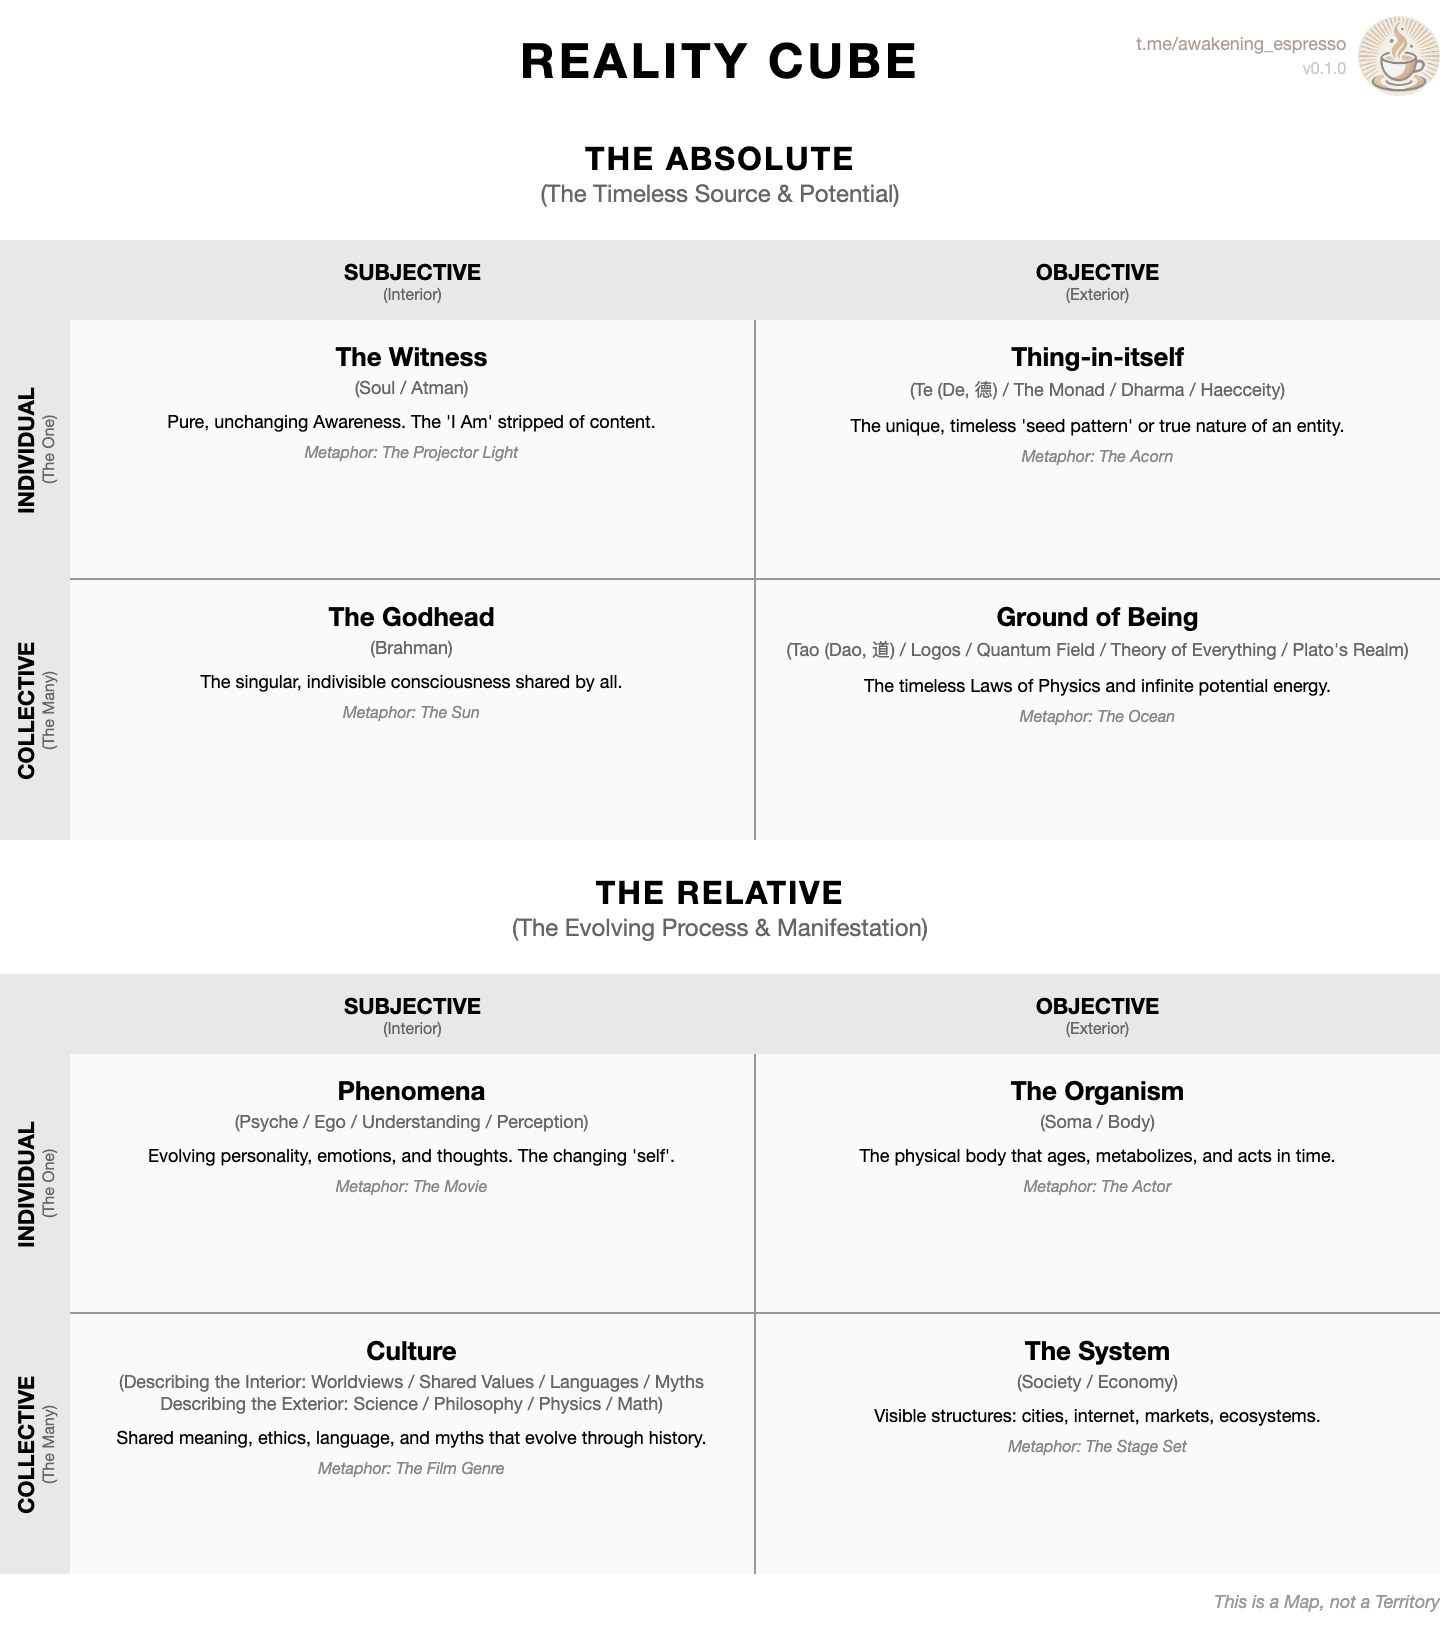
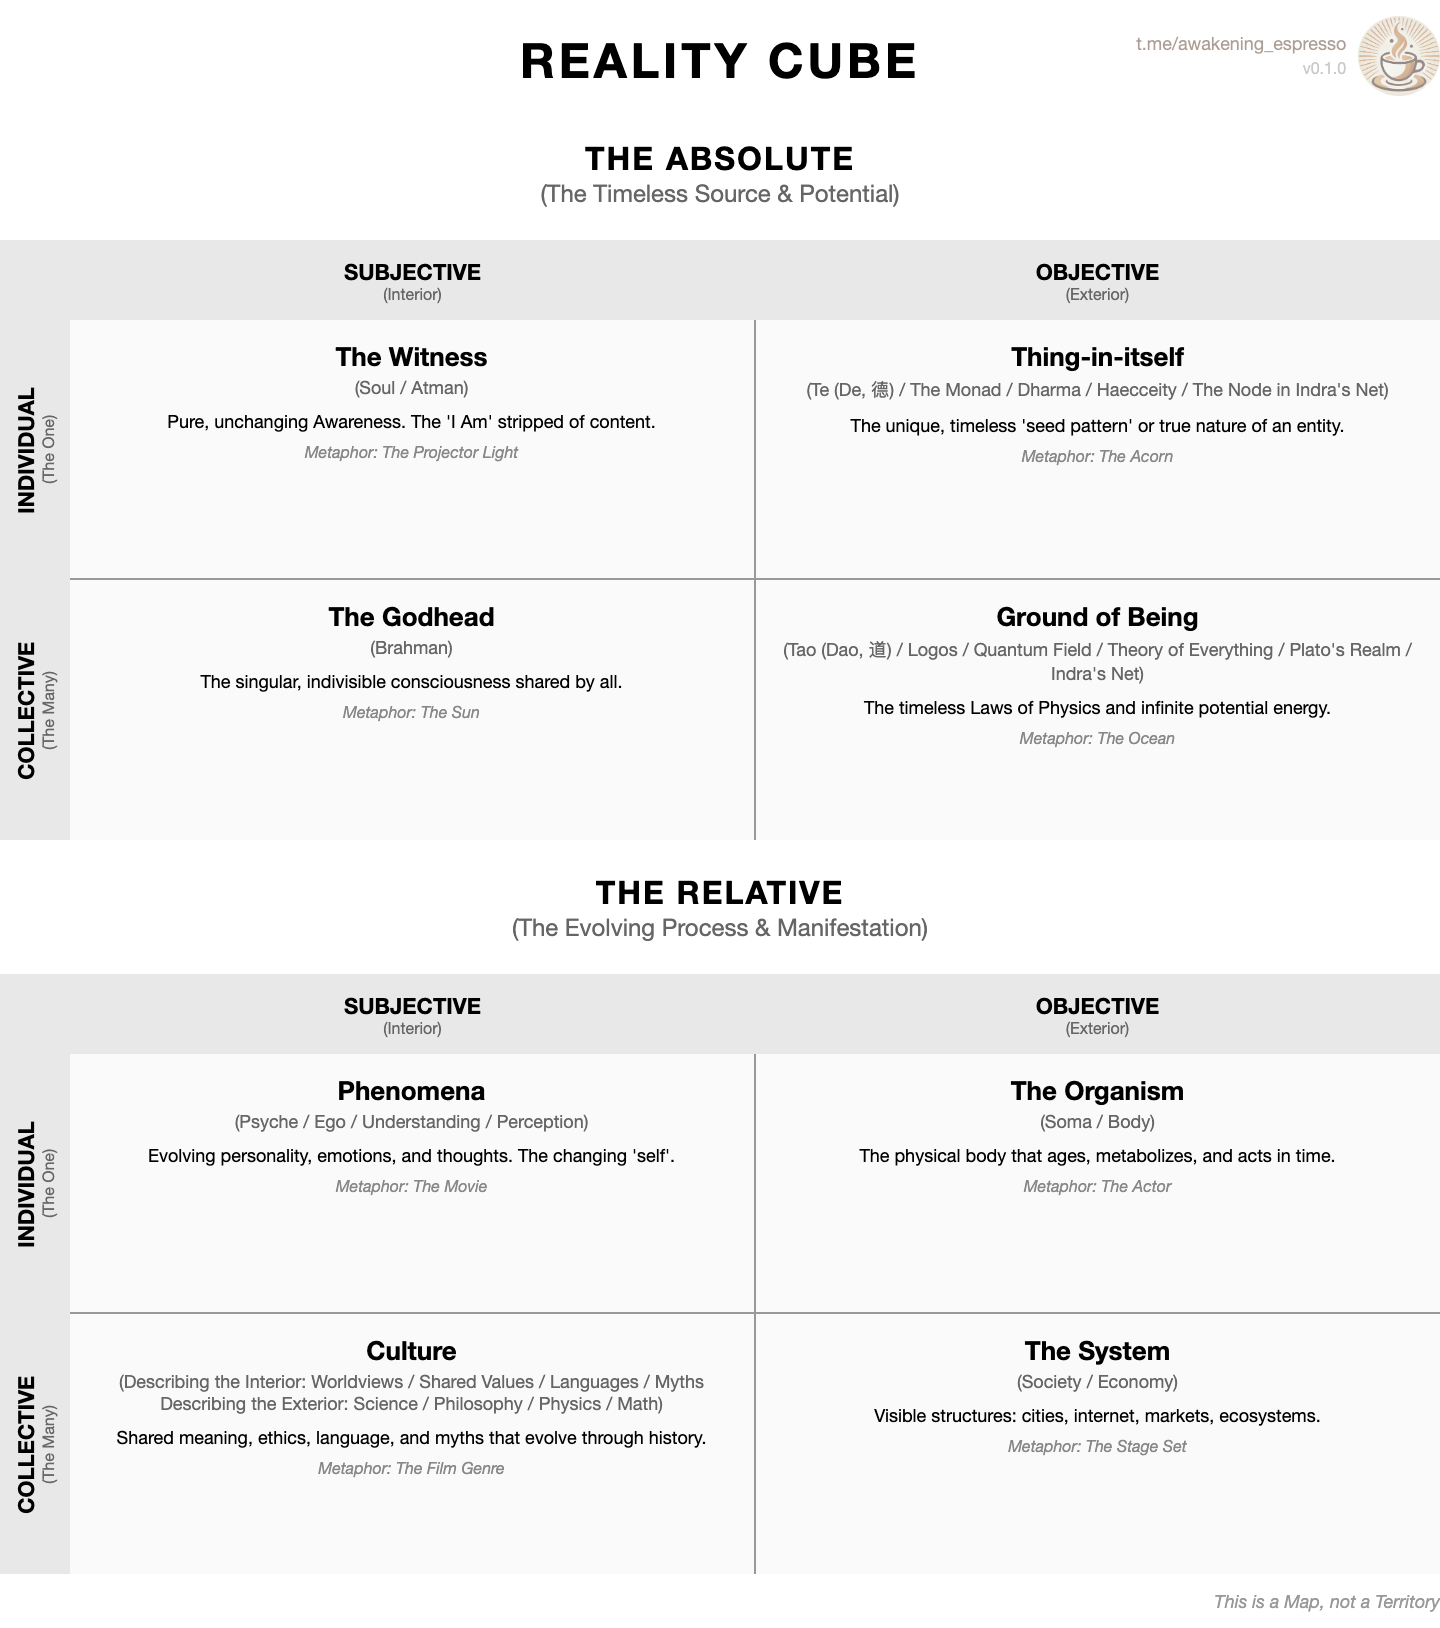
add index.html

Changed region(s): [[0.5938, 0.3993, 0.9375, 0.4607], [0.5625, 0.215, 0.9688, 0.2457]]

diff --git a/index.html b/index.html
@@ -83,10 +83,10 @@
         <div class="header"><strong>OBJECTIVE</strong><span class="hint">(Exterior)</span></div>
         <div class="header left"><strong>INDIVIDUAL</strong><span class="hint">(The One)</span></div>
         <div class="cell tl"><h3>The Witness</h3><div class="sub">(Soul / Atman)</div><div class="desc">Pure, unchanging Awareness. The 'I Am' stripped of content.</div><div class="meta">Metaphor: The Projector Light</div></div>
-        <div class="cell tr"><h3>Thing-in-itself</h3><div class="sub">(Te (De, 德) / The Monad / Dharma / Haecceity)</div><div class="desc">The unique, timeless 'seed pattern' or true nature of an entity.</div><div class="meta">Metaphor: The Acorn</div></div>
+        <div class="cell tr"><h3>Thing-in-itself</h3><div class="sub">(Te (De, 德) / The Monad / Dharma / Haecceity / The Node in Indra's Net)</div><div class="desc">The unique, timeless 'seed pattern' or true nature of an entity.</div><div class="meta">Metaphor: The Acorn</div></div>
         <div class="header left"><strong>COLLECTIVE</strong><span class="hint">(The Many)</span></div>
         <div class="cell bl"><h3>The Godhead</h3><div class="sub">(Brahman)</div><div class="desc">The singular, indivisible consciousness shared by all.</div><div class="meta">Metaphor: The Sun</div></div>
-        <div class="cell br"><h3>Ground of Being</h3><div class="sub">(Tao (Dao, 道) / Logos / Quantum Field / Theory of Everything / Plato's Realm)</div><div class="desc">The timeless Laws of Physics and infinite potential energy.</div><div class="meta">Metaphor: The Ocean</div></div>
+        <div class="cell br"><h3>Ground of Being</h3><div class="sub">(Tao (Dao, 道) / Logos / Quantum Field / Theory of Everything / Plato's Realm / Indra's Net)</div><div class="desc">The timeless Laws of Physics and infinite potential energy.</div><div class="meta">Metaphor: The Ocean</div></div>
     </div>
 </div>
 

diff --git a/generate_cube.py b/generate_cube.py
@@ -12,7 +12,7 @@ def main():
         template = Template(f.read())
 
     html = template.render(data=data, version=__VERSION__)
-    html_path = os.path.abspath('reality_cube_rendered.html')
+    html_path = os.path.abspath('index.html')
     png_path = os.path.abspath('reality_cube.png')
 
     with open(html_path, 'w') as f:
